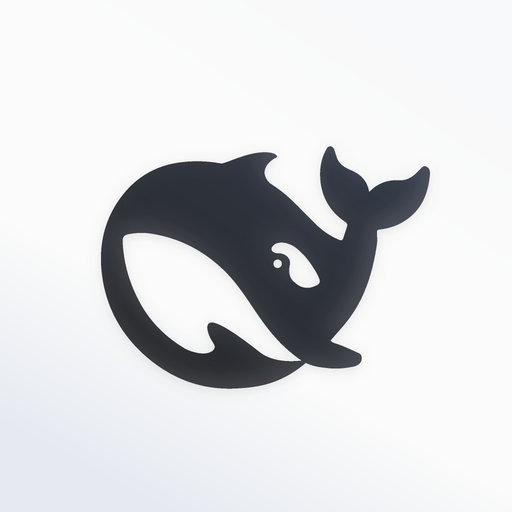
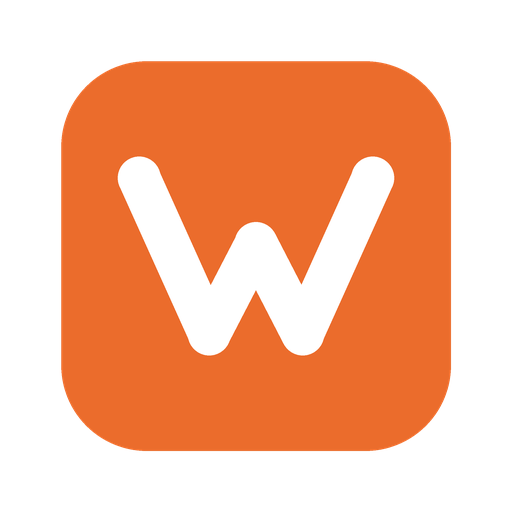
feat(wiseai): W brand marks and automatic verification-tenant cleanup
Replaces the whale marks in the sidebar header, blank-home greeting, and web favicons/icons with the orange W mark. Tenant auth now deletes leftover @wiseai.example verification tenants after schema migration so the admin dashboard counts only real accounts.

diff --git a/packages/api/tenant-auth/src/plugin.ts b/packages/api/tenant-auth/src/plugin.ts
@@ -38,6 +38,25 @@ function json(response: ServerResponse, status: number, value: unknown): void {
   response.end(JSON.stringify(value))
 }
 
+/**
+ * Delete customer tenants that exist only for deployment verification (every
+ * account on the `@wiseai.example` test domain), so the hosted admin dashboard
+ * reports real accounts instead of probe data.
+ * @param store - tenant identity store.
+ * @returns when the verification tenants are gone or the scan failed.
+ */
+async function purgeVerificationTenants(store: TenantAuthStore): Promise<void> {
+  const tenants = await store.listTenants()
+  for (const tenant of tenants) {
+    const accounts = await store.listAccounts(tenant.tenantId)
+    if (accounts.length === 0) continue
+    if (!accounts.every(account => account.email.toLowerCase().endsWith('@wiseai.example'))) continue
+    if (await store.deleteTenant(tenant.tenantId)) {
+      console.log(`[wiseai-tenant-auth] removed verification tenant ${tenant.tenantId}`)
+    }
+  }
+}
+
 /** Version 4 plugin body: authentication, member support intake, admin UI/API, and Stripe. */
 export function apply(ctx: Context, config: Config): void {
   const { webServer, connection } = ctx
@@ -52,6 +71,14 @@ export function apply(ctx: Context, config: Config): void {
   const migration = database.migrate().catch((error: unknown) => {
     console.error('[wiseai-tenant-auth] schema migration failed:', error)
   })
+  // Probe tenants from deployment verification hold no customer data; drop
+  // them after the schema settles so dashboards count real accounts.
+  ctx.effect(() => {
+    const cleanup = migration.then(() => purgeVerificationTenants(store)).catch((error: unknown) => {
+      console.error('[wiseai-tenant-auth] verification tenant cleanup failed:', error)
+    })
+    return () => { void cleanup }
+  }, 'wiseai-tenant-auth: verification cleanup')
   // The tenant access policy is inert until the Gateway and Typert services it
   // reads are mounted; start() also publishes the ownership services the
   // Session and Workspace controllers claim through. Start after the schema

diff --git a/packages/client/ui-support/src/client/index.ts b/packages/client/ui-support/src/client/index.ts
@@ -7,8 +7,10 @@ import type { Context as ClientContext } from '@deepseek-ai/cordis'
 import type {} from '@deepseek-ai/dsh-client-locale/client'
 import type {} from '@deepseek-ai/dsh-client-ui-renderer/client'
 import type {} from '@deepseek-ai/dsh-client-ui-sidebar/client'
+import type {} from '@deepseek-ai/dsh-client-ui-conversation/client'
 import { SupportButton } from './SupportButton.tsx'
 import { TenantAccountActions } from './TenantAccountActions.tsx'
+import { WiseBrandMark } from './WiseBrandMark.tsx'
 import { en, ja, es, fr, de, ru, pt, NS, zh, type SupportKey } from './locales.ts'
 
 declare module '@deepseek-ai/dsh-client-ui-slots' {
@@ -29,6 +31,12 @@ export const inject = ['slots', 'locale']
  */
 export function apply(ctx: ClientContext): void {
   ctx.effect(() => ctx.locale.register(NS, { zh, en, ja, es, fr, de, ru, pt }), 'ui-support: dictionaries')
+  // Hosted WiseAI brand: a W mark in the sidebar header and in the blank-home
+  // greeting, replacing the whale artwork.
+  ctx.slots.inject('sidebar.brand.mark', () => ctx.slots.register({ name: 'sidebar.brand.mark' }, WiseBrandMark))
+  ctx.slots.inject('conversation.hero.brand.mark', () => ctx.slots.register({
+    name: 'conversation.hero.brand.mark',
+  }, WiseBrandMark))
   ctx.slots.inject('sidebar.footer.action', () => ctx.slots.register({
     name: 'sidebar.footer.action',
     id: 'support',

diff --git a/packages/client/ui-support/src/client/WiseBrandMark.tsx b/packages/client/ui-support/src/client/WiseBrandMark.tsx
@@ -1,0 +1,35 @@
+/**
+ * Hosted WiseAI brand mark: an orange rounded square with the white W. It
+ * replaces the whale artwork in the sidebar header and the blank-home greeting.
+ * @module @deepseek-ai/dsh-client-ui-support/client/WiseBrandMark
+ */
+
+/** Presentation accepted by both brand-mark slots. */
+export interface WiseBrandMarkProps {
+  /** Requested square edge in pixels. */
+  readonly size: number
+  /** Host class preserving the surrounding mark geometry. */
+  readonly className?: string | undefined
+}
+
+/**
+ * Render the hosted brand mark.
+ * @param props - requested size and host class.
+ * @returns the W mark as an inline SVG.
+ */
+export function WiseBrandMark({ size, className }: WiseBrandMarkProps) {
+  return (
+    <svg width={size} height={size} viewBox="0 0 24 24" className={className} aria-hidden="true" focusable="false">
+      <rect x="1" y="1" width="22" height="22" rx="6" fill="#eb6c2c" />
+      <text
+        x="12"
+        y="17"
+        textAnchor="middle"
+        fontFamily="system-ui, -apple-system, 'Segoe UI', sans-serif"
+        fontSize="14"
+        fontWeight="700"
+        fill="#ffffff"
+      >W</text>
+    </svg>
+  )
+}

diff --git a/packages/client/ui-support/tests/brand-mark.client.spec.tsx b/packages/client/ui-support/tests/brand-mark.client.spec.tsx
@@ -1,0 +1,21 @@
+// @vitest-environment jsdom
+import { describe, expect, it } from 'vitest'
+import { render } from '@testing-library/react'
+import { WiseBrandMark } from '../src/client/WiseBrandMark.tsx'
+
+describe('WiseBrandMark', () => {
+  it('renders the orange W mark at the requested size', () => {
+    const view = render(<WiseBrandMark size={34} />)
+    const svg = view.container.querySelector('svg')
+    expect(svg?.getAttribute('width')).toBe('34')
+    expect(svg?.getAttribute('height')).toBe('34')
+    expect(svg?.textContent).toBe('W')
+    view.unmount()
+  })
+
+  it('forwards the host class', () => {
+    const view = render(<WiseBrandMark size={24} className="host-mark" />)
+    expect(view.container.querySelector('svg')?.getAttribute('class')).toBe('host-mark')
+    view.unmount()
+  })
+})
